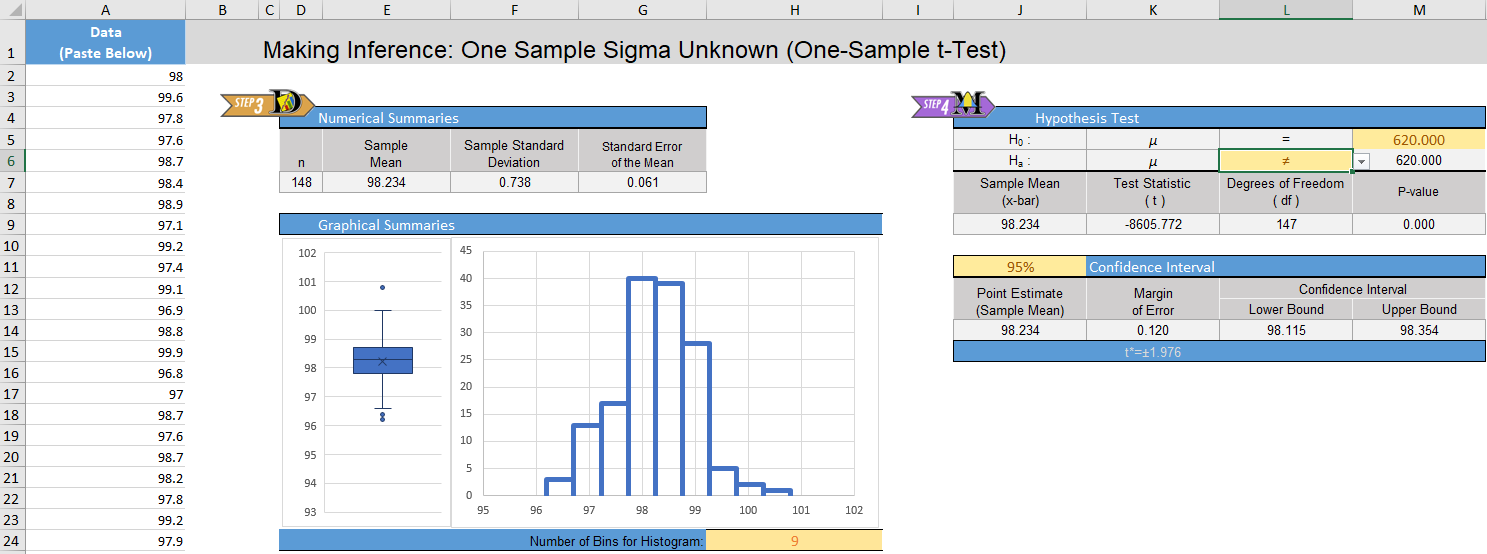
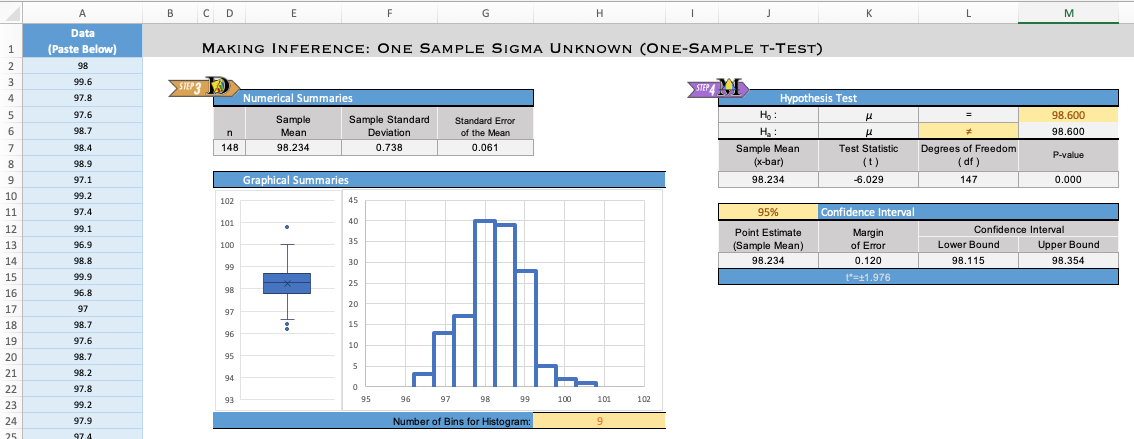
Cary Cottrell typo fixes...

Changed region(s): [[0.0, 0.0, 1.0, 1.0], [0.1852, 0.7995, 0.2469, 0.8292]]

diff --git a/docs/Lesson06.html b/docs/Lesson06.html
@@ -498,11 +498,11 @@ $(document).ready(function () {
 <li><p><strong>Step 01</strong>: Go to the following link <a href="http://onlinestatbook.com/stat_sim/sampling_dist/index.html" class="uri">http://onlinestatbook.com/stat_sim/sampling_dist/index.html</a>.</p></li>
 <li><p><strong>Step 02</strong>: Click on the [Begin] button. This will bring up a Java Applet that will demonstrate Sampling Distributions. You will see four graphs. The following paragraphs explain each of these graphs. The top graph represents the distribution of the population we are studying. This is labeled the “parent population.” To the left of this graph is the population mean and standard deviation. We typically don’t know the population mean and standard deviation, but for this simulation, we assume they are known!</p></li>
 </ul>
-<p>To the right of the histogram of the parent population is a drop down menu that allows you to choose the type of distribution for your population. We will only look at Normal, Skewed and Uniform.</p>
+<p>To the right of the histogram of the parent population is a drop-down menu that allows you to choose the type of distribution for your population. We will only look at Normal, Skewed, and Uniform.</p>
 <ul>
-<li><p><strong>Step 03</strong>: Before we move to the next step, go to the right of the third graph (labeled “Distribution of Means”) and change N=5 to N=25 in the drop down menu. This means that each sample will contain 25 data items from the population.</p></li>
+<li><p><strong>Step 03</strong>: Before we move to the next step, go to the right of the third graph (labeled “Distribution of Means”) and change N=5 to N=25 in the drop-down menu. This means that each sample will contain 25 data items from the population.</p></li>
 <li><p><strong>Step 04</strong>: The graph labeled Sample Data will display the individual data points from a sample. Press the [Animated] button to the right of this graph, and watch a random sample of data items fall from the population. The [Animated] button simulates the collection of a random sample of size n=25 from the parent population. Notice that it calculates the mean and plots the mean of the 25 values in the Distribution of Means graph. (The mean is shown in blue.)</p></li>
-<li><p><strong>Step 05</strong>: Repeatedly pushing the [Animated] button produces more samples of size 25, calculates the mean of each sample, and then places the mean in the Distribution of Means graph. Play with this a few times to make sure you understand the process.</p></li>
+<li><p><strong>Step 5</strong>: Repeatedly pushing the [Animated] button produces more samples of size 25, calculates the mean of each sample, and then places the mean in the Distribution of Means graph. Play with this a few times to make sure you understand the process.</p></li>
 </ul>
 <p>Notice that to the left of the Distribution of Means graph, the mean and standard deviation of the sample means is given. This is the mean and standard deviation of the Distribution of Means. In other words, it gives the mean of the means and the standard deviation of the means.</p>
 <ul>
@@ -511,9 +511,9 @@ $(document).ready(function () {
 <p>We are interested in the shape, center and spread of the Distribution of Means graph. This graph represents the distribution of sample means.</p>
 <ul>
 <li><p><strong>Step 07</strong>: Press the [Clear Lower 3] button. This will erase your data and reset the applet. Repeat Steps 04-08. Compare the new graph of the sample means (the third plot) with the graph you originally created. Even though they are based on different simulated draws from the population, they should be very similar.</p></li>
-<li><p><strong>Step 08</strong>: Press the [Clear Lower 3] button. Then, use the drop down menu below the [Clear Lower 3] button to change the distribution from a normal distribution to a uniform distribution. In a uniform distribution, all the values are equally likely to occur. In this simulation, the applet generates values between 1 and 32. This uniform distribution models rolling a fair, 32-sided die. Repeat steps 04-08 for the uniform distribution. What do you notice about the shape of the distribution of the sample means?</p></li>
-<li><p><strong>Step 09</strong>: Press the [Clear Lower 3] button. Then, use the drop down menu below the [Clear Lower 3] button to change the distribution from a uniform distribution to a skewed distribution. This represents a right-skewed distribution. Repeat steps 04-08 for the skewed distribution. What do you notice about the shape of the distribution of the sample means?</p></li>
-<li><p><strong>Step 10</strong>: Press the [Clear Lower 3] button. Then, use the drop down menu below the [Clear Lower 3] button to change the distribution from a skewed distribution to a custom distribution. This allows you to draw any distribution you wish using your mouse. Have fun. Choose a crazy distribution. Repeat steps 04-08 for your custom distribution. Take notice of the shape of the sample means.</p></li>
+<li><p><strong>Step 08</strong>: Press the [Clear Lower 3] button. Then, use the drop-down menu below the [Clear Lower 3] button to change the distribution from a normal distribution to a uniform distribution. In a uniform distribution, all the values are equally likely to occur. In this simulation, the applet generates values between 1 and 32. This uniform distribution models rolling a fair, 32-sided die. Repeat steps 04-08 for the uniform distribution. What do you notice about the shape of the distribution of the sample means?</p></li>
+<li><p><strong>Step 09</strong>: Press the [Clear Lower 3] button. Then, use the drop-down menu below the [Clear Lower 3] button to change the distribution from a uniform distribution to a skewed distribution. This represents a right-skewed distribution. Repeat steps 04-08 for the skewed distribution. What do you notice about the shape of the distribution of the sample means?</p></li>
+<li><p><strong>Step 10</strong>: Press the [Clear Lower 3] button. Then, use the drop-down menu below the [Clear Lower 3] button to change the distribution from a skewed distribution to a custom distribution. This allows you to draw any distribution you wish using your mouse. Have fun. Choose a crazy distribution. Repeat steps 04-08 for your custom distribution. Take notice of the shape of the sample means.</p></li>
 <li><p><strong>Step 11</strong>: Repeat step 10 for different distributions. Be sure to try some that are very skewed, some that are high on the ends and low in the middle, or other crazy shapes. It is important that you press the [Clear Lower 3] button every time you change the distribution. Otherwise the graph of the means will contain a mixture of the results from the different distributions.</p></li>
 </ul>
 <p><br></p>
@@ -537,7 +537,7 @@ $(document).ready(function () {
 <li>If the parent population is normal, then the sampling distribution of <span class="math inline">\(\bar x\)</span> will always be normally distributed, no matter how many observations are selected.</li>
 <li>If the parent population is not normal, then the sampling distribution <span class="math inline">\(\bar x\)</span> will be approximately normally distributed, if the sample size is large enough.</li>
 <li>If the parent population is almost normal (e.g. mound-shaped and nearly symmetrical), then a sample of size n = 5 will probably be sufficient to assure that <span class="math inline">\(\bar x\)</span> will be approximately normally distributed.</li>
-<li>If the parent population is heavily skewed, then it will require a larger sample size to be assured that <span class="math inline">\(\bar x\)</span> will be normally distributed. For most moderately skewed distributions, a sample size of around 30 is traditionally thought to be sufficiently large to assure that <span class="math inline">\(\bar x\)</span> will be approximately normally distributed. This is not a definitive number, but is a rule of thumb.</li>
+<li>If the parent population is heavily skewed, then it will require a larger sample size to be assured that <span class="math inline">\(\bar x\)</span> will be normally distributed. For most moderately skewed distributions, a sample size of around 30 is traditionally thought to be sufficiently large to assure that <span class="math inline">\(\bar x\)</span> will be approximately normally distributed. This is not a definitive number but is a rule of thumb.</li>
 <li>For tremendously skewed distributions (e.g., the distribution of lottery payouts), a much larger sample will be required before the distribution of sample means is approximately normal. This may require billions of observations. Simulation can be used to determine if a particular sample size is sufficient. For this course, if the sample size is at least 30, we will conclude that the sampling distribution of <span class="math inline">\(\bar x\)</span> will be approximately normal.</li>
 </ul>
 <div class="QuestionsHeading">
@@ -650,7 +650,7 @@ Remember…
 <div class="Summary">
 <ul>
 <li><p>The <strong>distribution of sample means</strong> is a distribution of all possible sample means (<span class="math inline">\(\bar x\)</span>) for a particular sample size. It has a mean of <span class="math inline">\(\mu\)</span> and a standard deviation of <span class="math inline">\(\sigma/\sqrt{n}\)</span>.</p></li>
-<li><p>The distribution of sample means is normal when <span class="math inline">\(\bar x\)</span> is normally distributed or when, thanks to the <strong>Central Limit Theorom (CLT)</strong>, our sample size (<span class="math inline">\(n\)</span>) is large.</p></li>
+<li><p>The distribution of sample means is normal when <span class="math inline">\(\bar x\)</span> is normally distributed or when, thanks to the <strong>Central Limit Theorem (CLT)</strong>, our sample size (<span class="math inline">\(n\)</span>) is large.</p></li>
 <li>The <strong>Law of Large Numbers</strong> states that as the sample size (<span class="math inline">\(n\)</span>) gets larger, the sample mean (<span class="math inline">\(\bar x\)</span>) will get closer to the population mean (<span class="math inline">\(\mu\)</span>).</li>
 </ul>
 </div>

diff --git a/docs/Lesson11.html b/docs/Lesson11.html
@@ -479,7 +479,7 @@ $(document).ready(function () {
 <p><img src="Images/WilliamSealyGosset-NoCopyright.png"></p>
 <p>In practice, we almost never know the population standard deviation, <span class="math inline">\(\sigma\)</span>. So, it is generally not appropriate to use the formula <span class="math display">\[
 z = \frac{ \bar x - \mu }{ \sigma / \sqrt{n} }
-\]</span> In 1908, William Sealy Gosset published a solution to this problem <!--<cite>Gosset08</cite>-->. He found a way to appropriately compute the confidence interval for the mean when <span class="math inline">\(\sigma\)</span> is not known. The basic idea is to use the sample standard deviation, <span class="math inline">\(s\)</span> in the place of the true population standard deviation, <span class="math inline">\(\sigma\)</span>. If <span class="math inline">\(\sigma\)</span> is not known, we cannot base the calculations on the standard normal distribution, and we cannot use the formula above to conduct hypothesis tests.</p>
+\]</span> In 1908, William Sealy Gosset published a solution to this problem<!--<cite>Gosset08</cite>-->. He found a way to appropriately compute the confidence interval for the mean when <span class="math inline">\(\sigma\)</span> is not known. The basic idea is to use the sample standard deviation, <span class="math inline">\(s\)</span>, in the place of the true population standard deviation, <span class="math inline">\(\sigma\)</span>. If <span class="math inline">\(\sigma\)</span> is not known, we cannot base the calculations on the standard normal distribution, and we cannot use the formula above to conduct hypothesis tests.</p>
 <p>In a remarkable piece of work, Gosset found the appropriate distribution to use when <span class="math inline">\(\sigma\)</span> is unknown. At the time of this discovery, Gosset worked for the Guinness brewery. To avoid problems with industrial espionage, Guinness prohibited employees from publishing any research results. Knowing his work provided a significant contribution to Statistics, Gosset convinced his employer to allow him to publish under a fictitious name. He chose the pseudonym “Student”. Gosset’s test statistic was denoted by the letter <span class="math inline">\(t\)</span>, this distribution has come to be known as <strong>Student’s t-distribution</strong>.</p>
 <p><span class="math display">\[
 t = \frac{ \bar x - \mu }{ s / \sqrt{n} }
@@ -602,11 +602,11 @@ Excel Instructions
 </li>
 <li>Paste the data in the appropriate place in Column A.</li>
 <li>Set the null hypothesis value in cell M5. For this example, the value should be 98.6.</li>
-<li>Click in cell L6 and use the drop down menu to set the alternative hypothesis to: “Not Equal To”</li>
+<li>Click in cell L6 and use the drop-down menu to set the alternative hypothesis to: “Not Equal To”</li>
 </ul>
 <p>The image below shows the Excel file after these changes have been made.</p>
 <center>
-<img src="Images/BodyTemp-tTest-Excel_Toolbox.PNG">
+<img src="Images/BodyTemp-tTest-Excel_Toolbox.png">
 </center>
 <p>Consider each of the following alternative hypotheses that could be used in a test for a single mean where the null hypothesis is <span class="math inline">\(H_0: \mu = 98.6\)</span>.</p>
 <ul>
@@ -660,7 +660,7 @@ H_a: &amp;~ \mu \ne 3373
 <p><span class="math display">\[ \alpha = 0.05 \]</span></p>
 <p><img src="Images/Step2.png"></p>
 <p><strong>Describe the data collection procedures</strong></p>
-<p>The birth weights of all children born on December 18, 1997 at the Mater Mothers’ Hospital in Brisbane, Australia were recorded <!--<cite>JSEdunn99</cite>-->. The time of birth (on a 24 hour clock), gender, and birth weight of each child are given in the file <a href="./Data/BabyBoom-JSE.xlsx">BabyBoom.xlsx</a>.</p>
+<p>The birth weights of all children born on December 18, 1997 at the Mater Mothers’ Hospital in Brisbane, Australia were recorded<!--<cite>JSEdunn99</cite>-->. The time of birth (on a 24 hour clock), gender, and birth weight of each child are given in the file <a href="./Data/BabyBoom-JSE.xlsx">BabyBoom.xlsx</a>.</p>
 <p>Using this data set, test the hypothesis that the mean weight of babies born in Australia is 3373 grams. Use the <span class="math inline">\(\alpha=0.05\)</span> level of significance for this problem. Make an appropriate graph of the data.</p>
 <p><img src="Images/Step3.png"></p>
 <div class="QuestionsHeading">
@@ -727,7 +727,7 @@ Answer the following questions:
 df = 43
 \]</span>
 </center></li>
-<li>Notice that this is one less than than sample size. For a test for a single mean, the degrees of freedom are always equal to one less than the sample size.</li>
+<li>Notice that this is one less than the sample size. For a test for a single mean, the degrees of freedom are always equal to one less than the sample size.</li>
 </ul>
 </div>
 <p> </p>
@@ -762,7 +762,7 @@ df = 43
 <p><strong>Summarize the relevant background information</strong></p>
 <p>Computer software is commonly used to translate text from one language to another. As part of his Ph.D. thesis, Philipp Koehn developed a phrase-based translation program called Pharaoh. <!--<cite>Koehn04Pharaoh</cite>--></p>
 <p>The quality of the translation can vary. A good translation system should match a professional human translation. <!--<cite>Papineni02</cite>--> It is important to be able to quantify how good the translations produced by Pharaoh are.</p>
-<p>The IBM T. J. Watson Research Center developed methods to measure the quality of a translation from one language to another. <!--<cite>Brown90</cite>--> One of these is the the BiLingual Evaluation Understudy (BLEU). <!--<cite>Papineni02</cite>--> BLEU is a score ranging from 0 to 1 that indicates how well a computer translation matches a professional human translation of the same text. Higher scores indicate a better match. BLEU helps companies who develop translation software “to monitor the effect of daily changes to their systems in order to weed out bad ideas from good ideas”. <!--<cite>Papineni02</cite>--></p>
+<p>The IBM T. J. Watson Research Center developed methods to measure the quality of a translation from one language to another. <!--<cite>Brown90</cite>--> One of these is the BiLingual Evaluation Understudy (BLEU). <!--<cite>Papineni02</cite>--> BLEU is a score ranging from 0 to 1 that indicates how well a computer translation matches a professional human translation of the same text. Higher scores indicate a better match. BLEU helps companies who develop translation software “to monitor the effect of daily changes to their systems in order to weed out bad ideas from good ideas”. <!--<cite>Papineni02</cite>--></p>
 <p><img src="Images/Step2.png"></p>
 <p><strong>Describe the data collection procedures</strong></p>
 <p>To test Pharaoh’s ability to translate, Koehn took a random sample of 100 blocks of Spanish text, each of which contained 300 sentences, and used Pharaoh to translate each of these to English. The BLEU score was calculated for each of the 100 blocks. The data were extracted from Figure 2 in a paper Koehn published. <!--<cite>Koehn04</cite>--> The 100 BLEU scores are given in <a href="./Data/BLEU-Scores.xlsx">BLEU-Scores</a>.</p>

diff --git a/docs/Lesson09.html b/docs/Lesson09.html
@@ -636,7 +636,7 @@ $(document).ready(function () {
 </center> 
 -->
 <p><img src="Images/Step3.png"></p>
-<p>To help us understand the the data, we first create a graph summarizing the values.</p>
+<p>To help us understand the data, we first create a graph summarizing the values.</p>
 <center>
 <strong>Weights of Passengers and Crew on the Ethan Allen</strong><br> <img src="Images/EthanAllen-PassengerWeights-Histogram.png">
 </center>
@@ -771,7 +771,7 @@ Answer the following questions:
 </div>
 <p><br></p>
 <ol start="10" style="list-style-type: decimal">
-<li>Assuming the mean body temperature really is 98.6° F, how likely would it be for a random sample of <span class="math inline">\(n=148\)</span> people in the population to have a mean body temperature that is a extreme as was observed in Question 3?</li>
+<li>Assuming the mean body temperature really is 98.6° F, how likely would it be for a random sample of <span class="math inline">\(n=148\)</span> people in the population to have a mean body temperature that is as extreme as was observed in Question 3?</li>
 </ol>
 <a href="javascript:showhide('Q10')"><span style="font-size:8pt;">Show/Hide Solution</span></a>
 <div id="Q10" style="display:none;">
@@ -1120,7 +1120,7 @@ Type I<br /> Error
 -->
 <p>We do not want to commit Type I errors, so why not choose a very small value for <span class="math inline">\(\alpha\)</span>? If we choose <span class="math inline">\(\alpha\)</span> to be so small that we rarely commit a Type I error, what would happen to the probability of committing a Type II error? (Think about it.)</p>
 <p>If the <span class="math inline">\(\alpha\)</span> value (the probability of committing a Type I error) is very small, the probability of committing a Type II error will be large. Conversely, if <span class="math inline">\(\alpha\)</span> is allowed to be very large, then the probability of committing a Type II error will be very small. A level of significance of <span class="math inline">\(\alpha=0.05\)</span> seems to strike a good balance between the probabilities of committing a Type I versus a Type II error. However, there may be instances where it will be important to choose a different value for <span class="math inline">\(\alpha\)</span>. The important thing is to choose <span class="math inline">\(\alpha\)</span> before you collect your data. Typical choices of <span class="math inline">\(\alpha\)</span> are <span class="math inline">\(0.05\)</span> (most common), <span class="math inline">\(0.1\)</span>, and <span class="math inline">\(0.01\)</span>.</p>
-<p>Read each of the following scenarios, and answer the questions.</p>
+<p>Read each of the following scenarios and answer the questions.</p>
 <p><strong>Scenario 1</strong>: The BYU-Idaho Honor Code specifically prohibits wearing flip-flops on campus.<br />
 A student is seen on campus wearing shoes that look somewhat like flip-flops.<br />
 Consider the following null and alternative hypotheses: <span class="math display">\[
@@ -1298,7 +1298,7 @@ n = 148
 <p><strong>Verify the requirements have been met</strong></p>
 <ul>
 <li>We assume that the individuals chosen to participate in the study represent a (simple) random sample from the population.</li>
-<li><span class="math inline">\(\bar{x}\)</span> will be normally distributed, because the sample size is large. (Note: We could have also noticed that the body temperature data appears to be normally distributed, so even with a small sample size, <span class="math inline">\(\bar{x}\)</span> would be normal.)</li>
+<li><span class="math inline">\(\bar{x}\)</span> will be normally distributed because the sample size is large. (Note: We could have also noticed that the body temperature data appears to be normally distributed, so even with a small sample size, <span class="math inline">\(\bar{x}\)</span> would be normal.)</li>
 </ul>
 <p><strong>Give the test statistic and its value</strong></p>
 <p><span class="math display">\[z=-6.669\]</span></p>
@@ -1734,7 +1734,7 @@ Answer the following question:
 <p> </p>
 </div>
 <p><br></p>
-<p>In science, we make a hypothesis (or a statement or claim) and then we gather evidence “against” that requirement. If we cannot reject the hypothesis, In the mathematical example above, we started with an requirement and did not find sufficient evidence against that requirement. In the end, we arrived at no contradiction at all: <span class="math inline">\(1=1\)</span>. This did not mean that our original claim that <span class="math inline">\(1=2\)</span> was true; it only meant that we had not yet disproved it. We could not reject the original claim.</p>
+<p>In science, we make a hypothesis (or a statement or claim) and then we gather evidence “against” that requirement. If we cannot reject the hypothesis, in the mathematical example above, we started with a requirement and did not find sufficient evidence against that requirement. In the end, we arrived at no contradiction at all: <span class="math inline">\(1=1\)</span>. This did not mean that our original claim that <span class="math inline">\(1=2\)</span> was true; it only meant that we had not yet disproved it. We could not reject the original claim.</p>
 <p>We have to be careful when conducting hypothesis tests. When we conduct a test, we assume the null hypothesis is true. This provides a distribution for the test statistic, and allows us to calculate the <span class="math inline">\(P\)</span>-value. If we find that the <span class="math inline">\(P\)</span>-value is large, that means that we did not find a contradiction in our requirement that the null hypothesis is true. That does not mean that the null hypothesis is true, it only means that we cannot reject it. For this reason, we never say we “accept the null hypothesis.” When the <span class="math inline">\(P\)</span>-value is large, we say that we “fail to reject the null hypothesis.”</p>
 </div>
 <div id="testimonies-and-hypothesis-tests" class="section level3">

diff --git a/docs/Lesson10.html b/docs/Lesson10.html
@@ -471,7 +471,7 @@ $(document).ready(function () {
 <li>Explain how the margin of error changes with the sample size and the level of confidence.</li>
 <li>Identify a point estimate and margin of error for the confidence interval.</li>
 <li>Show the appropriate connections between the numerical and graphical summaries that support this confidence interval.</li>
-<li>Check the requirements the confidence interval.</li>
+<li>Check the requirements of the confidence interval.</li>
 <li>Calculate a desired sample size given a level of confidence and margin of error.</li>
 </ul>
 </div>
@@ -482,7 +482,7 @@ $(document).ready(function () {
 <p><img src="Images/Step4.png"></p>
 <p>During an election in the United States, many polls are conducted to determine the attitudes of likely voters. Poll results are usually reported as percentages. For example, a poll might state that 49% favor the Republican candidate and 51% favor the Democratic candidate.</p>
 <p>Polls always include a <strong>margin of error</strong>. The margin of error gives an estimate of the variability in the responses. A common value for the margin of error in political polls is 3%.</p>
-<p>When we consider the margin of error, we estimate that the true proportion of people who favor the Republican candidate is 49% ± 3%, or in other words between 46% and 52%. It is not obvious wether the Republican candidate is favored by more or less than 50% of the voters. In this case, the political race is too close to know who might win.</p>
+<p>When we consider the margin of error, we estimate that the true proportion of people who favor the Republican candidate is 49% ± 3%, or in other words, between 46% and 52%. It is not obvious whether the Republican candidate is favored by more or less than 50% of the voters. In this case, the political race is too close to know who might win.</p>
 <p>In this reading, we will explore the margin of error and its role in estimating a parameter.</p>
 <p><br></p>
 </div>
@@ -994,7 +994,7 @@ When we interpret this confidence interval, we say, “We are 95% <em>confident<
 \left( \bar x - z^* \frac{\sigma}{\sqrt{n}}, \bar x + z^* \frac{\sigma}{\sqrt{n}} \right)
 \]</span> The part of the equation that is added to and subtracted from <span class="math inline">\(\bar x\)</span> is called the <strong>margin of error</strong>. We will denote the margin of error by the letter <span class="math inline">\(m\)</span>. <span class="math display">\[
 m=z^* \frac{\sigma}{\sqrt{n}}
-\]</span> To use this formula, the parameter <span class="math inline">\(\sigma\)</span> must be given to us. It is the true standard deviation of the data you are observing. If you do not know <span class="math inline">\(\sigma\)</span>, you can estimate it using the standard deviation reported in a previous study or by conducting a pilot study. A study published by another hospital reported that the standard deviation of the costs for CABG surgery was $28,705 <!--<cite>Chu09</cite>-->.</p>
+\]</span> To use this formula, the parameter <span class="math inline">\(\sigma\)</span> must be given to us. It is the true standard deviation of the data you are observing. If you do not know <span class="math inline">\(\sigma\)</span>, you can estimate it using the standard deviation reported in a previous study or by conducting a pilot study. A study published by another hospital reported that the standard deviation of the costs for CABG surgery was $28,705. <!--<cite>Chu09</cite>--></p>
 <p>In the following questions, you will compute the margin of error, <span class="math inline">\(m\)</span>, for a future study of the hospital costs for CABG surgery. The hospital administrators want to use a 95% level of confidence. Assume the standard deviation can be estimated to be <span class="math inline">\(\sigma = \$28,705\)</span>.</p>
 <div class="QuestionsHeading">
 Answer the following questions:
@@ -1093,7 +1093,7 @@ Answer the following question:
 </div>
 <div class="Questions">
 <ol start="13" style="list-style-type: decimal">
-<li>In Question 12, you used the process of guess-and-check to find the sample size. For this question, use the sample size formula to compute the sample size required to estimate the mean cost of CABG surgery, <span class="math inline">\(\mu\)</span>, within $2000 with 95% confidence. Recall that in a previous study, the standard deviation was found to be <span class="math inline">\(\sigma = \$28,705\)</span> <!--<cite>Chu09</cite>-->.</li>
+<li>In Question 12, you used the process of guess-and-check to find the sample size. For this question, use the sample size formula to compute the sample size required to estimate the mean cost of CABG surgery, <span class="math inline">\(\mu\)</span>, within $2000 with 95% confidence. Recall that in a previous study, the standard deviation was found to be <span class="math inline">\(\sigma = \$28,705\)</span>. <!--<cite>Chu09</cite>--></li>
 </ol>
 <a href="javascript:showhide('Q13')"><span style="font-size:8pt;">Show/Hide Solution</span></a>
 <div id="Q13" style="display:none;">

diff --git a/docs/Lesson08.html b/docs/Lesson08.html
@@ -452,21 +452,21 @@ $(document).ready(function () {
 <li>Stratified sampling</li>
 <li><p>Convenience sampling</p></li>
 <li>Explain the significance of using a random sample.</li>
-<li>Determine the shape of a distribution using a histogram and/or box plot.</li>
-<li>Determine the centers of a given histogram and/or box plot.</li>
+<li>Determine the shape of a distribution using a histogram and/or boxplot.</li>
+<li>Determine the centers of a given histogram and/or boxplot.</li>
 <li>Identify the mean, median and standard deviation in skewed or normal histograms.</li>
 <li>Calculate the mean, median and standard deviation from quantitative data.</li>
 <li>Calculate a percentile from a quantitative data set.</li>
 <li>Calculate a five-number summary from quantitative data with Excel, or by hand.</li>
-<li>Create a histogram and a box-plot from quantitative data.</li>
+<li>Create a histogram and a boxplot from quantitative data.</li>
 <li>State and apply the three axioms of probability.</li>
 <li>State the properties of a normal density curve.</li>
 <li>Calculate the z-score of an individual observation, given the mean and standard deviation.</li>
 <li>Interpret a z-score.</li>
 <li>Calculate probability as area under a normal density curve.</li>
-<li>Assess normality using a QQ-plot.</li>
+<li>Assess normality using a histogram.</li>
 <li>Explain how a sampling distribution is created.</li>
-<li>Determine the mean, standard deviation and shape of a distribution of sample means.</li>
+<li>Determine the mean, standard deviation, and shape of a distribution of sample means.</li>
 <li>State and apply the Central Limit Theorem and the Law of Large numbers.</li>
 <li>Calculate probabilities using a distribution of sample means.</li>
 </ul>
@@ -513,7 +513,7 @@ Lesson 03 Recap
 <div class="Summary">
 <ul>
 <li><p>A <strong>histogram</strong> allows us to visually interpret data. Histograms can be left-skewed, right-skewed, or symmetrical and bell-shaped.</p></li>
-<li><p>The <strong>mean</strong>, <strong>median</strong>, and <strong>mode</strong> are measures of the center of a distribution. The mean is the most common measure of center, and is computed by adding up the observed data and dividing by the number of observations in the data set.</p></li>
+<li><p>The <strong>mean</strong>, <strong>median</strong>, and <strong>mode</strong> are measures of the center of a distribution. The mean is the most common measure of center and is computed by adding up the observed data and dividing by the number of observations in the data set.</p></li>
 <li><p>The <strong>standard deviation</strong> is a number that describes how spread out the data are. A larger standard deviation means the data are more spread out than data with a smaller standard deviation.</p></li>
 <li><p>A <strong>parameter</strong> is a true (but usually unknown) number that describes a population. A <strong>statistic</strong> is an estimate of a parameter obtained from a sample.</p></li>
 <li><strong>Quartiles/percentiles</strong>, <strong>Five-Number Summaries</strong>, and <strong>Boxplots</strong> are tools that help us understand data. The five-number summary of a data set contains the minimum value, the first quartile, the median, the third quartile, and the maximum value. A boxplot is a graphical representation of the five-number summary.</li>
@@ -553,7 +553,7 @@ Lesson 06 Recap
 <div class="Summary">
 <ul>
 <li><p>The <strong>distribution of sample means</strong> is a distribution of all possible sample means (<span class="math inline">\(\bar x\)</span>) for a particular sample size. It has a mean of <span class="math inline">\(\mu\)</span> and a standard deviation of <span class="math inline">\(\sigma/\sqrt{n}\)</span>.</p></li>
-<li><p>The distribution of sample means is normal when <span class="math inline">\(\bar x\)</span> is normally distributed or when, thanks to the <strong>Central Limit Theorom (CLT)</strong>, our sample size (<span class="math inline">\(n\)</span>) is large.</p></li>
+<li><p>The distribution of sample means is normal when <span class="math inline">\(\bar x\)</span> is normally distributed or when, thanks to the <strong>Central Limit Theorem (CLT)</strong>, our sample size (<span class="math inline">\(n\)</span>) is large.</p></li>
 <li>The <strong>Law of Large Numbers</strong> states that as the sample size (<span class="math inline">\(n\)</span>) gets larger, the sample mean (<span class="math inline">\(\bar x\)</span>) will get closer to the population mean (<span class="math inline">\(\mu\)</span>).</li>
 </ul>
 </div>

diff --git a/docs/Lesson07.html b/docs/Lesson07.html
@@ -539,7 +539,7 @@ Answer the following questions:
 <h2>Probabilities Involving a Mean</h2>
 <p>If the sample mean is normally distributed, then we can consider the sample mean, <span class="math inline">\(\bar x\)</span>, as one observation from a normal distribution with mean <span class="math inline">\(\mu\)</span> and standard deviation <span class="math inline">\(\displaystyle{\frac{\sigma}{\sqrt{n}}}\)</span>. With this in mind, we can compute the <span class="math inline">\(z\)</span>-score for any value of this random variable:</p>
 <p><span class="math display">\[z = \frac{\text{value} - \text{mean}}{\text{standard deviation}}=\frac{\bar x-\mu}{\sigma / \sqrt{n} }\]</span></p>
-<p>Notice that we just replaced the “value”&quot; with the normal random variable, the “mean”&quot; with its mean and “standard deviation”&quot; with its standard deviation.</p>
+<p>Notice that we just replaced the “value” with the normal random variable, the “mean” with its mean and “standard deviation” with its standard deviation.</p>
 <p>The <span class="math inline">\(z\)</span>-score follows a standard normal distribution. That is, it has a mean of 0 and a standard deviation of 1. After we compute the <span class="math inline">\(z\)</span>-score, we can use the applet to find the probability that a randomly selected mean will be above or below a given value of <span class="math inline">\(\bar x\)</span>.</p>
 <p><strong>Worked Example: Finding the Area under a Normal Curve (Based on a Sample Mean)</strong></p>
 <p>After finding the <span class="math inline">\(z\)</span>-score, we can use the normal probability applet to find the area under the curve (i.e. the probability.) Suppose that a sample of size <span class="math inline">\(n = 4\)</span> has been drawn from a normal population with mean <span class="math inline">\(\mu = 7\)</span> and standard deviation <span class="math inline">\(\sigma = 3\)</span>. Since the parent population is normal, we know the sampling distribution of the sample mean <span class="math inline">\(\bar x\)</span> will be normal with mean <span class="math inline">\(\mu = 7\)</span> and standard deviation <span class="math inline">\(\displaystyle{ \frac{\sigma}{\sqrt{n}} = \frac{3}{\sqrt{4}} = 1.5}\)</span>. We can use this information to find the probability that <span class="math inline">\(\bar x\)</span> will be greater than 10.</p>
